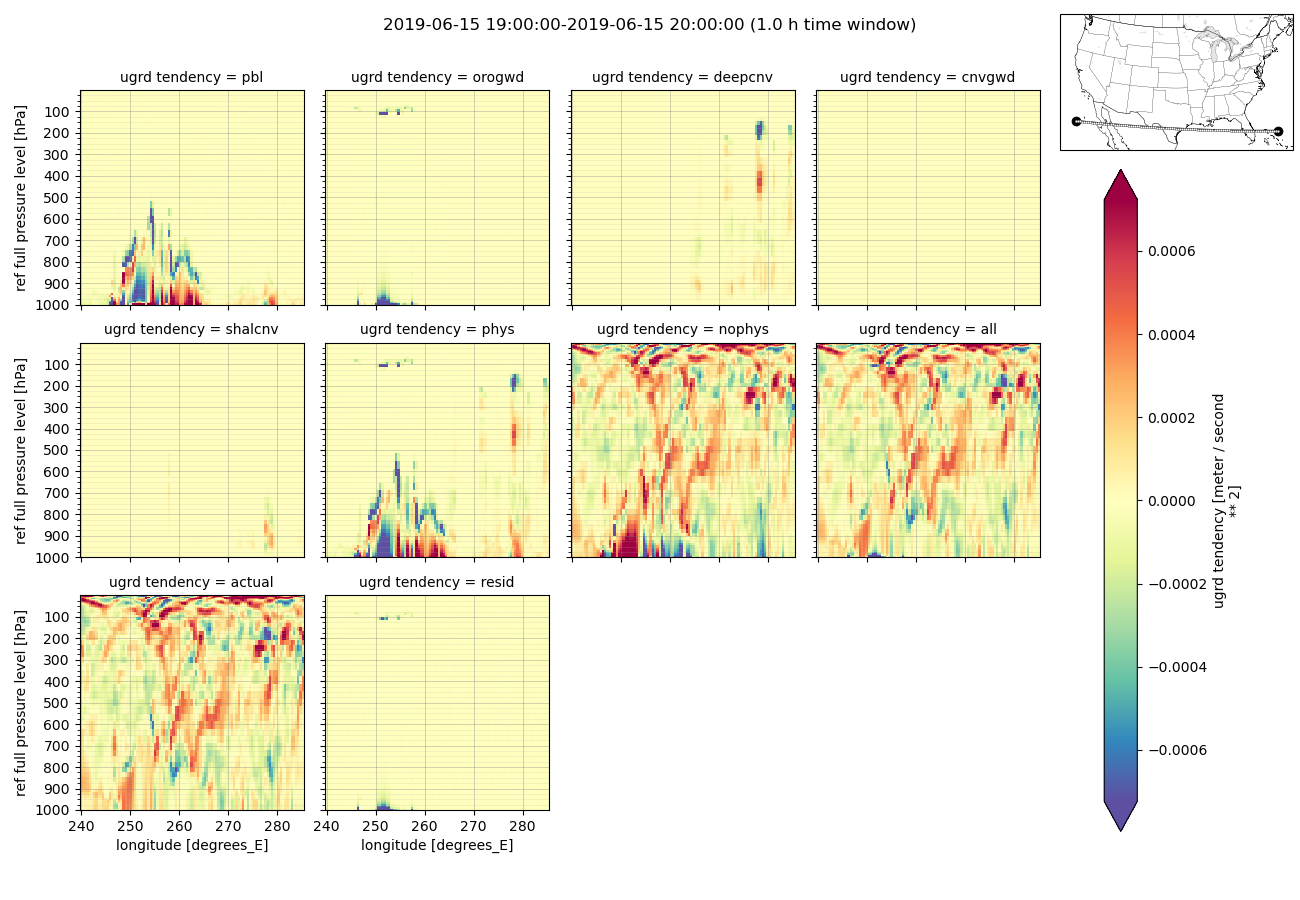
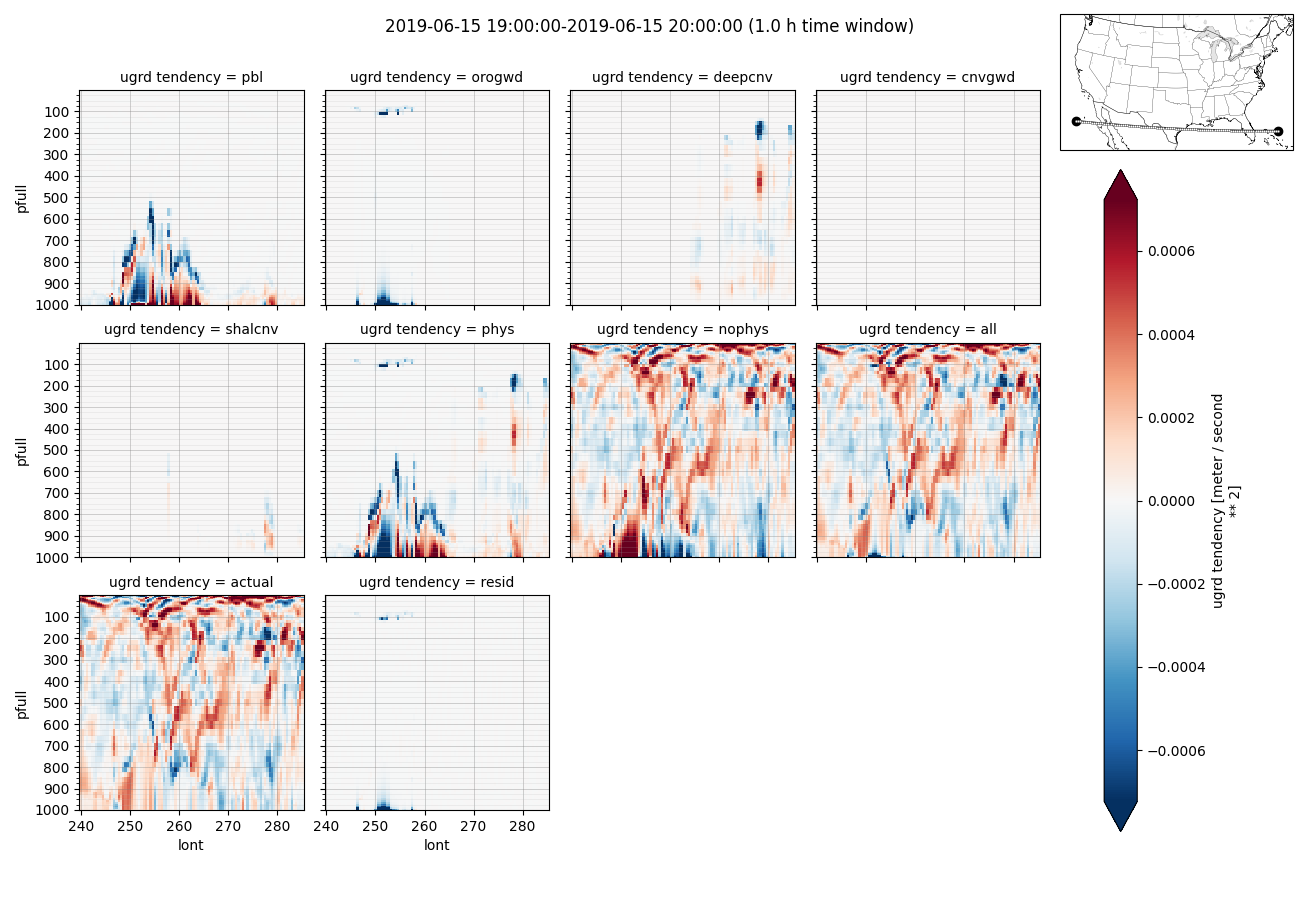
better colormap

diff --git a/docs/Users_Guide/fv3_physics.rst b/docs/Users_Guide/fv3_physics.rst
@@ -288,6 +288,8 @@ time window ending 20z June 15, 2019.
 
 .. code-block:: yaml
 
+   # color map
+   cmap : "RdBu_r"
    startpt :
       - 28
       - -120
